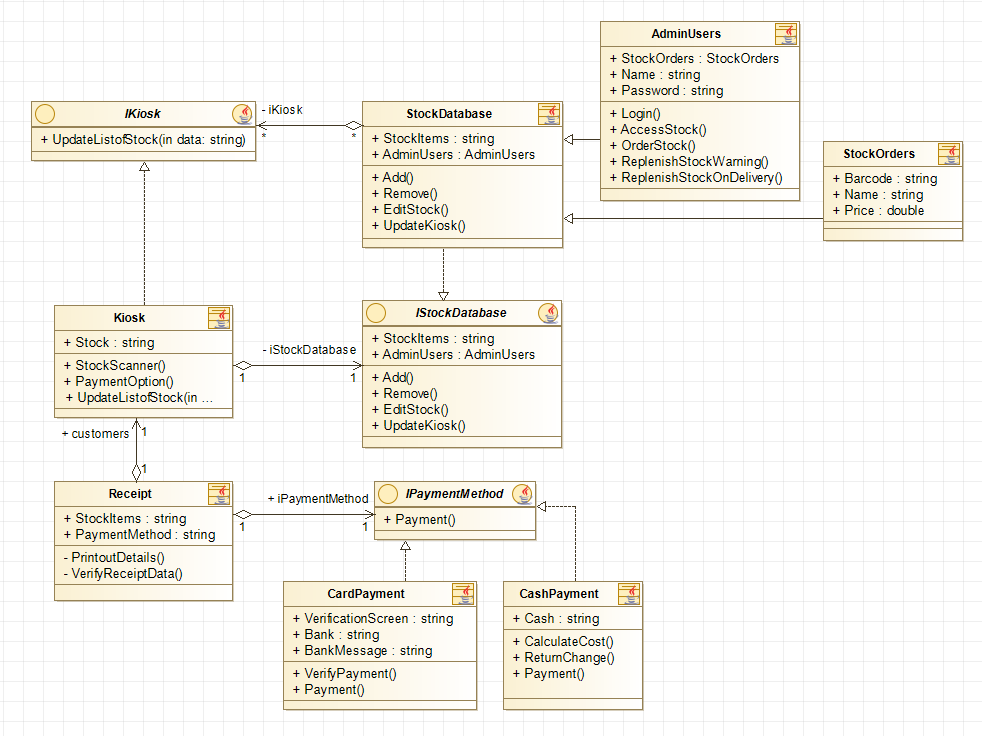
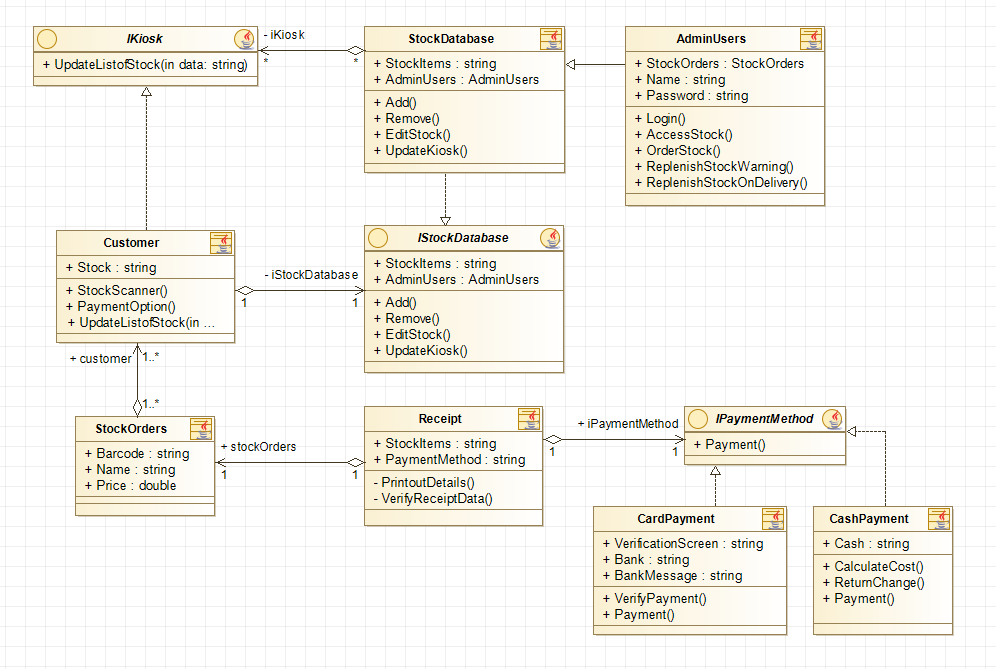
COMP2003 Application - Changelog 11
Added AdminUserLogins.txt to the resources folder
Added Read file code to AdminUsers Class and StockDatabase Class
Added code to Main Class to call Read Methods from AdminUsers and StockDatabase Class
Updated UML Diagram to add Customer Class
Updated the Tests Class to add testing functionality

Changed region(s): [[0.0305, 0.0299, 1.0, 0.9865], [0.5804, 0.5979, 0.8554, 0.7175]]

diff --git a/COMP2000_CourseworkProject/src/com/View/AdminUsers.java b/COMP2000_CourseworkProject/src/com/View/AdminUsers.java
@@ -1,6 +1,10 @@
 package com.View;
 
 
+import java.io.File;
+import java.io.FileNotFoundException;
+import java.util.Scanner;
+
 public class AdminUsers extends StockDatabase {
     public StockOrders StockOrders;
 
@@ -8,10 +12,29 @@ public class AdminUsers extends StockDatabase {
 
     public String Password;
 
-    public void Login() {
-//begin of modifiable zone(JavaCode)......C/8e5d0222-4228-499e-9baf-d3fa9edd74cb
+    public String filepath = "resources\\AdminUserLogins.txt";
 
-//end of modifiable zone(JavaCode)........E/8e5d0222-4228-499e-9baf-d3fa9edd74cb
+    public String separator = "\\|";
+
+    public void Login() {
+        try{
+            File file = new File(filepath);
+
+            Scanner scanner = new Scanner(file);
+
+            while (scanner.hasNextLine()) {
+                String tableRow = scanner.nextLine();
+
+                String[] StockItemDetails = tableRow.split(separator);
+                System.out.println(StockItemDetails[0]);
+                System.out.println(StockItemDetails[1]);
+                System.out.println(StockItemDetails[2]);
+                System.out.println(StockItemDetails[3]);
+            }
+        }
+        catch(FileNotFoundException e){
+            e.printStackTrace();
+        }
     }
 
     public void AccessStock() {

diff --git a/COMP2000_CourseworkProject/src/com/View/StockDatabase.java b/COMP2000_CourseworkProject/src/com/View/StockDatabase.java
@@ -15,7 +15,7 @@ public class StockDatabase implements IStockDatabase {
 
     public AdminUsers AdminUsers;
 
-    public String filepath = "StockItemsList.txt";
+    public String filepath = "resources\\StockItemsList.txt";
 
     public String separator = "\\|";
 
@@ -49,7 +49,10 @@ public class StockDatabase implements IStockDatabase {
             String tableRow = scanner.nextLine();
 
             String[] StockItemDetails = tableRow.split(separator);
+            System.out.println(StockItemDetails[0]);
             System.out.println(StockItemDetails[1]);
+            System.out.println(StockItemDetails[2]);
+            System.out.println(StockItemDetails[3]);
         }
         }
         catch(FileNotFoundException e){

diff --git a/COMP2000_CourseworkProject/src/com/View/Main.java b/COMP2000_CourseworkProject/src/com/View/Main.java
@@ -3,6 +3,11 @@ package com.View;
 public class Main {
 
     public static void main(String[] args) {
-	// write your code here
+	StockDatabase test = new StockDatabase();
+
+	test.UpdateKiosk();
+
+	AdminUsers test2 = new AdminUsers();
+	test2.Login();
     }
 }

diff --git a/COMP2000_CourseworkProject/Tests/Tests.java b/COMP2000_CourseworkProject/Tests/Tests.java
@@ -1,0 +1,9 @@
+import org.junit.*;
+import static org.junit.Assert.*;
+
+public class Tests {
+    @Test
+    public void SetUp(){
+
+    }
+}
